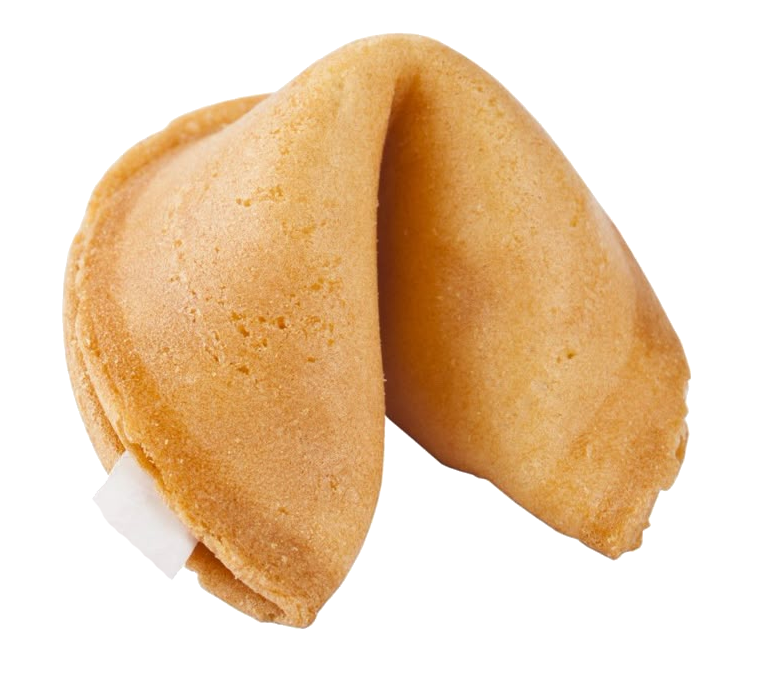
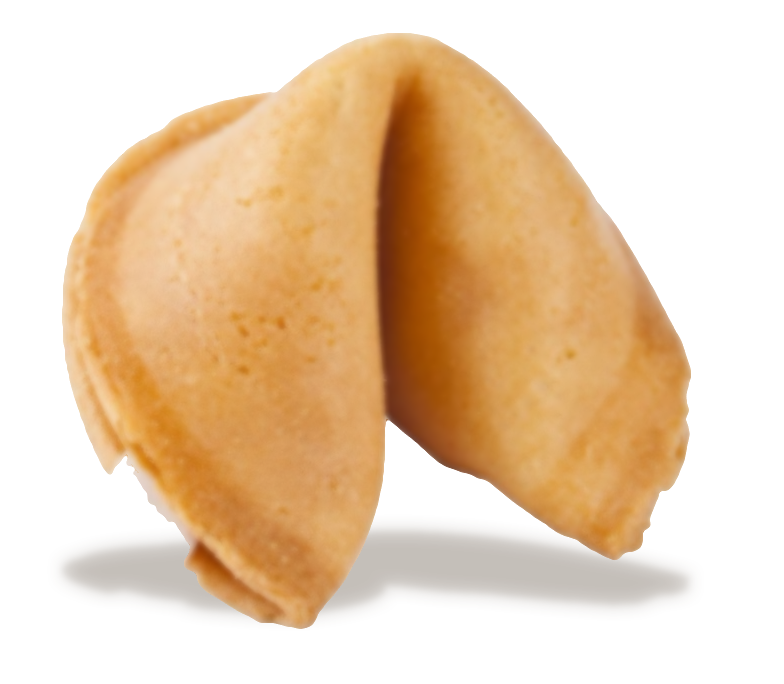
Clean up fortune cookie images; reading list: finished The Princess Bride, now reading Martyr!

diff --git a/src/pages/ReadingList.js b/src/pages/ReadingList.js
@@ -46,7 +46,7 @@ function ReadingSection({ label, children }) {
 export default function ReadingList() {
   const currentlyReading = useMemo(
     () => [
-      { title: 'The Princess Bride', author: 'William Goldman' },
+      { title: 'Martyr!', author: 'Kaveh Akbar' },
       { title: 'Taipei Travelogue', author: 'Yáng Shuāng-zǐ' },
       { title: 'Things Fall Apart', author: 'Chinua Achebe' },
       { title: 'One Hundred Years of Solitude', author: 'Gabriel García Márquez' },
@@ -66,6 +66,7 @@ export default function ReadingList() {
 
   const booksFinishedThisYear = useMemo(
     () => [
+      { title: 'The Princess Bride', author: 'William Goldman' },
       { title: 'Coraline', author: 'Neil Gaiman' },
       { title: 'Taipei Story', author: 'R.F. Kuang' },
       { title: 'Love in the Time of Cholera', author: 'Gabriel García Márquez' },
